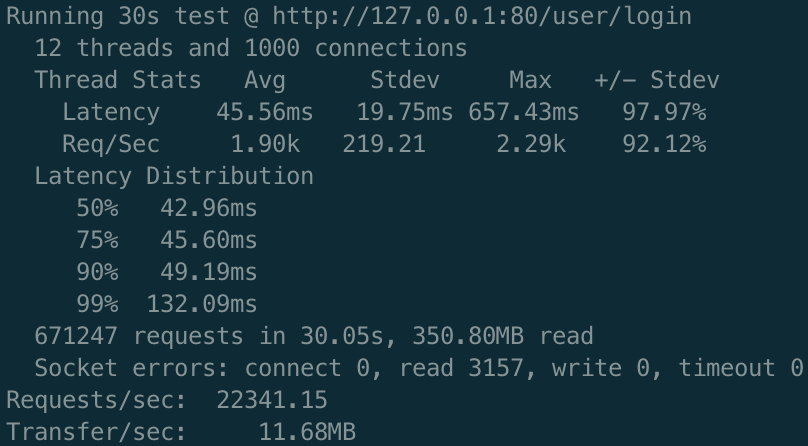
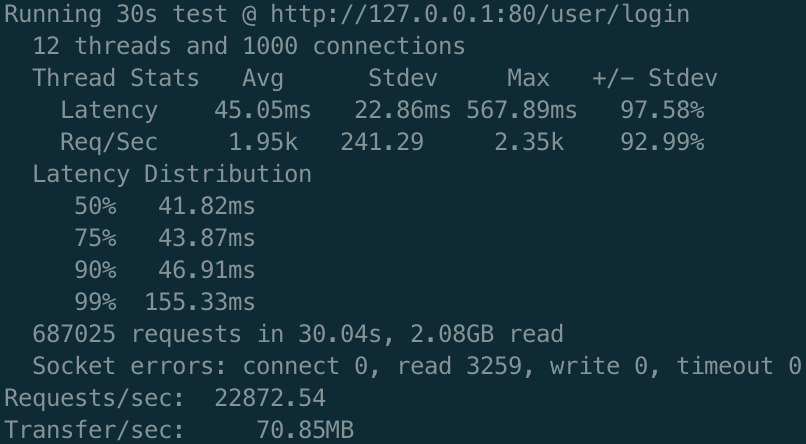
Fix profile img upload js bug & update report

diff --git a/httpserver/view/edit.html b/httpserver/view/edit.html
@@ -32,7 +32,7 @@
         </div>
         <div class="pt-3 d-flex justify-content-end">
           <button class="btn btn-primary btn-sm mx-3 disabled" id="submit-button" type="submit">Save Changes</button>
-          <button class="btn border btn-sm">Cancel</button>
+          <a class="btn border btn-sm" href="/profile">Cancel</a>
         </div>
       </div>
     </form>

diff --git a/httpserver/view/js/profile.js b/httpserver/view/js/profile.js
@@ -10,7 +10,7 @@ function readURL(input) {
 
         const reader = new FileReader();
         reader.onload = function (e) {
-            document.getElementById("image-feedback").src = e.target.result;
+            document.getElementById("imageResult").src = e.target.result;
         };
         reader.readAsDataURL(input.files[0]);
         enableSubmitButton()

diff --git a/docs/Report.md b/docs/Report.md
@@ -159,7 +159,7 @@ The following diagram illustrates the sample flow for a login request.
 
 ### Architecture
 
-The following diagram illustrates the high level architecture of the HTTP server.
+The following diagram illustrates the high level architecture of the TCP server.
 
 ![TCP Server](TCPServer.png)
 
@@ -218,7 +218,7 @@ The following image shows the result for `MD5`
 
 ![Performance Test Result - MD5](PerformanceTestMd5.png)
 
-Clearly, `MD5` achieved a much higher QPS of **22341** as compared to a QPS of **6391** for `BCrypt`
+Clearly, `MD5` achieved a much higher QPS of **22872** as compared to a QPS of **6391** for `BCrypt`
 
 
 **Security In Question**
